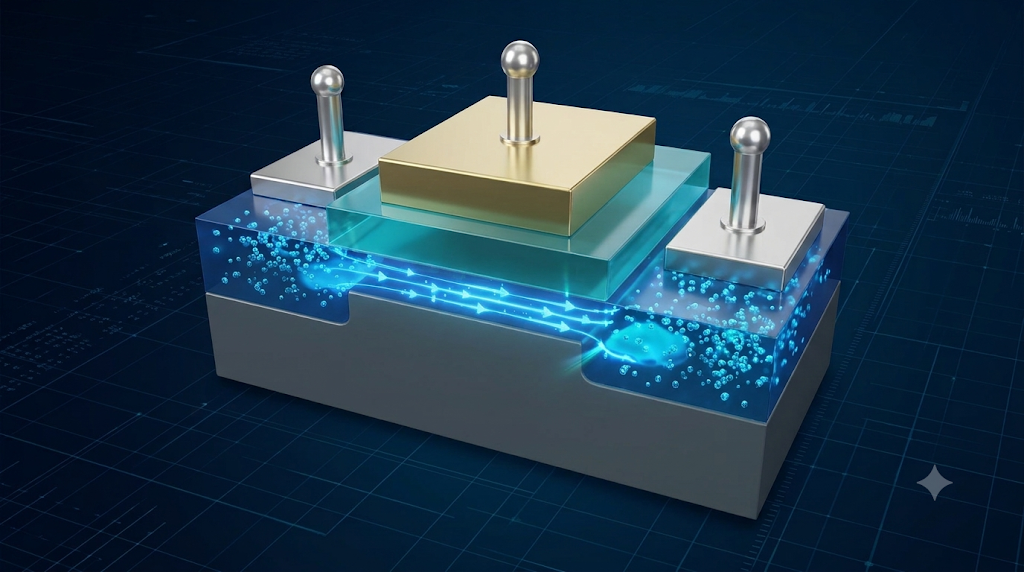
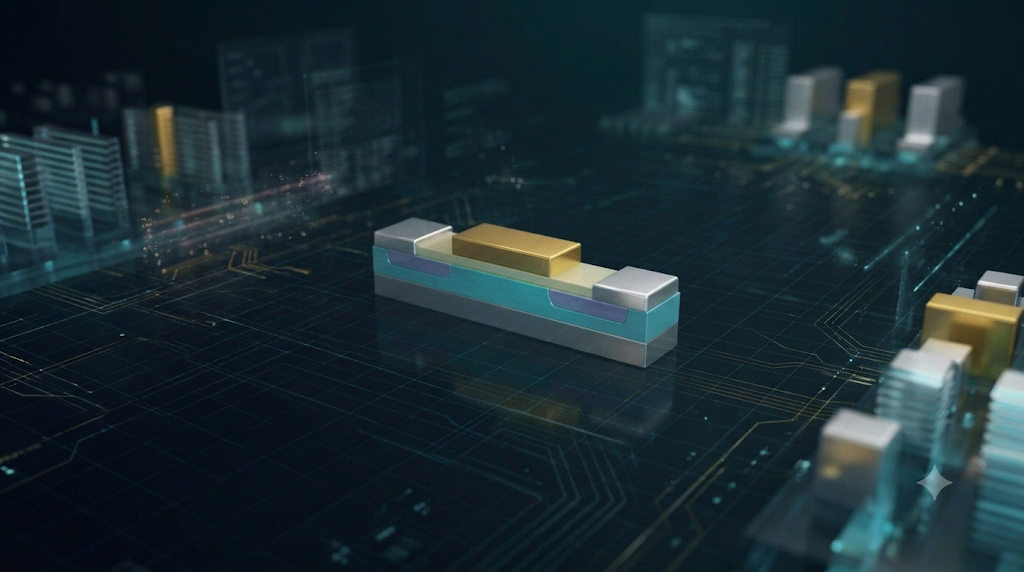
Update MOSFET card and hover background with supplied image

diff --git a/frontend/blog.js b/frontend/blog.js
@@ -82,7 +82,7 @@ function blogPostView(data) {
 }
 // Add a trusted HTML article here and put its files in frontend/tech/.
 const TECH_ARTICLES=[
-  {id:'mosfet',title:'MOSFET',summary:'드래그로 만나는 반도체의 구조',tags:'3D · 반도체',url:'tech/mosfet.html',preview:'tech/mosfet-cover.png'},
+  {id:'mosfet',title:'MOSFET',summary:'드래그로 만나는 반도체의 구조',tags:'3D · 반도체',url:'tech/mosfet.html',preview:'tech/mosfet-cover.png?v=2'},
   {id:'finfet',title:'FinFET',summary:'채널의 세 면을 감싸는 게이트',tags:'3D · 반도체',url:'tech/finfet.html',preview:'tech/finfet-cover.png'},
   {id:'gaafet',title:'GAAFET',summary:'나노시트의 전체 둘레를 감싸다',tags:'3D · 반도체',url:'tech/gaafet.html',preview:'tech/gaafet-cover.png'},
   {id:'cfet',title:'CFET',summary:'nFET과 pFET을 위아래로 쌓다',tags:'3D · 반도체',url:'tech/cfet.html',preview:'tech/cfet-cover.png'},
@@ -92,7 +92,7 @@ const TECH_ARTICLES=[
 function techArticleCards() {
   if(blogState.page!==1)return '';
   const query=blogState.query.toLocaleLowerCase();
-  return TECH_ARTICLES.filter(article=>[article.title,article.summary,article.tags].join(' ').toLocaleLowerCase().includes(query)).map(article=>`<a class="tech-card ${article.id}-card ${article.id==='mosfet'?'':'image-card'}" data-cover="${article.id}" style="--cover:url('${article.preview}')" href="${article.url}"><svg class="tech-card-arrow" viewBox="0 0 24 24" aria-hidden="true"><path d="M6 18 18 6M6 6h12v12"/></svg><div><h2>${article.title}</h2><p>${article.summary}</p></div><span class="tech-card-meta">${article.tags}<span>열어보기</span></span></a>`).join('');
+  return TECH_ARTICLES.filter(article=>[article.title,article.summary,article.tags].join(' ').toLocaleLowerCase().includes(query)).map(article=>`<a class="tech-card ${article.id}-card image-card" data-cover="${article.id}" style="--cover:url('${article.preview}')" href="${article.url}"><svg class="tech-card-arrow" viewBox="0 0 24 24" aria-hidden="true"><path d="M6 18 18 6M6 6h12v12"/></svg><div><h2>${article.title}</h2><p>${article.summary}</p></div><span class="tech-card-meta">${article.tags}<span>열어보기</span></span></a>`).join('');
 }
 function blogList(data) {
   if(globalThis.YOUWITH_PUBLIC_PREVIEW&&blogState.category!=='tech')return '<section class="panel blog-feed blog-empty"><h2>게시판은 준비 중이에요.</h2><p>Tech에서는 반도체 구조와 AI 학습을 둘러볼 수 있어요.</p></section>';

diff --git a/frontend/blog.css b/frontend/blog.css
@@ -91,7 +91,7 @@
 .tech-card:hover .tech-card-arrow { transform:translate(3px,-3px); }
 .tech-card-meta { display:flex; gap:12px; justify-content:space-between; align-items:center; color:var(--green-text); font-size:12px; padding-top:18px; border-top:1px solid var(--line); }
 .tech-grid > .blog-empty { grid-column:1/-1; padding:32px; }
-body::after { content:''; position:fixed; inset:0; z-index:-1; pointer-events:none; background:linear-gradient(rgba(2,8,17,.48),rgba(2,8,17,.48)),#080e19 url('tech/mosfet-cover.png') center/cover no-repeat; opacity:0; transition:opacity 480ms cubic-bezier(.16,1,.3,1); }
+body::after { content:''; position:fixed; inset:0; z-index:-1; pointer-events:none; background:linear-gradient(rgba(2,8,17,.48),rgba(2,8,17,.48)),#080e19 url('tech/mosfet-cover.png?v=2') center/cover no-repeat; opacity:0; transition:opacity 480ms cubic-bezier(.16,1,.3,1); }
 body:has(.mosfet-card:hover)::after, body:has(.mosfet-card:focus-visible)::after { opacity:1; }
 @media(min-width:601px) and (max-width:850px) { .tech-grid { grid-template-columns:repeat(2,minmax(0,1fr)); } }
 @media(max-width:600px) { .tech-grid { grid-template-columns:minmax(0,1fr); gap:16px; }.tech-card { padding:24px; }.tech-card h2 { font-size:30px; } }

diff --git a/frontend/index.html b/frontend/index.html
@@ -9,7 +9,7 @@
     <script src="settings.js?v=24"></script>
     <link rel="stylesheet" href="theme.css?v=15" />
     <link rel="stylesheet" href="style.css?v=22" />
-    <link rel="stylesheet" href="blog.css?v=24" />
+    <link rel="stylesheet" href="blog.css?v=25" />
   </head>
   <body data-auth-pending>
     <aside class="sidebar">
@@ -49,6 +49,6 @@
     </dialog>
     <div id="toast" role="status"></div>
     <script src="deployment.js?v=24"></script>
-    <script src="auth.js?v=24"></script>
+    <script src="auth.js?v=25"></script>
   </body>
 </html>

diff --git a/frontend/auth.js b/frontend/auth.js
@@ -27,7 +27,7 @@
     for (const file of ["config.js", "notice-data.js", "notice-board.js", "notice-calendar.js", "recruitment.js", "screens.js", "apple-selection.js", "game.js", "tetris.js", "blog.js", "app.js"]) {
       await new Promise((resolve, reject) => {
         const script = document.createElement("script");
-        script.src = file + "?v=24";
+        script.src = file + "?v=25";
         script.onload = resolve;
         script.onerror = reject;
         document.body.append(script);
